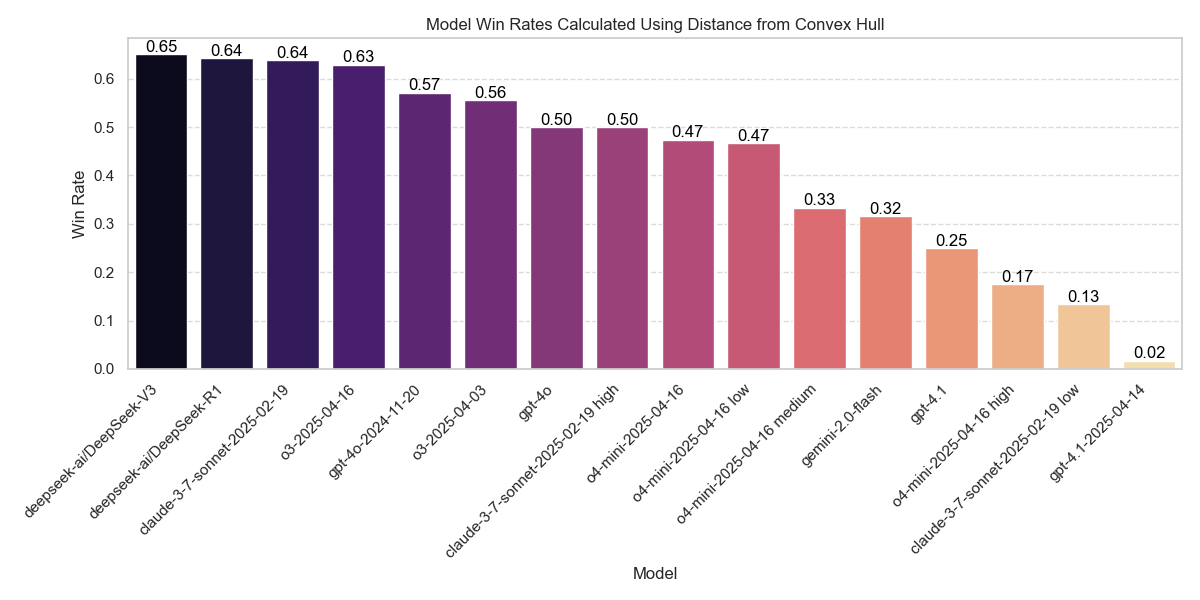
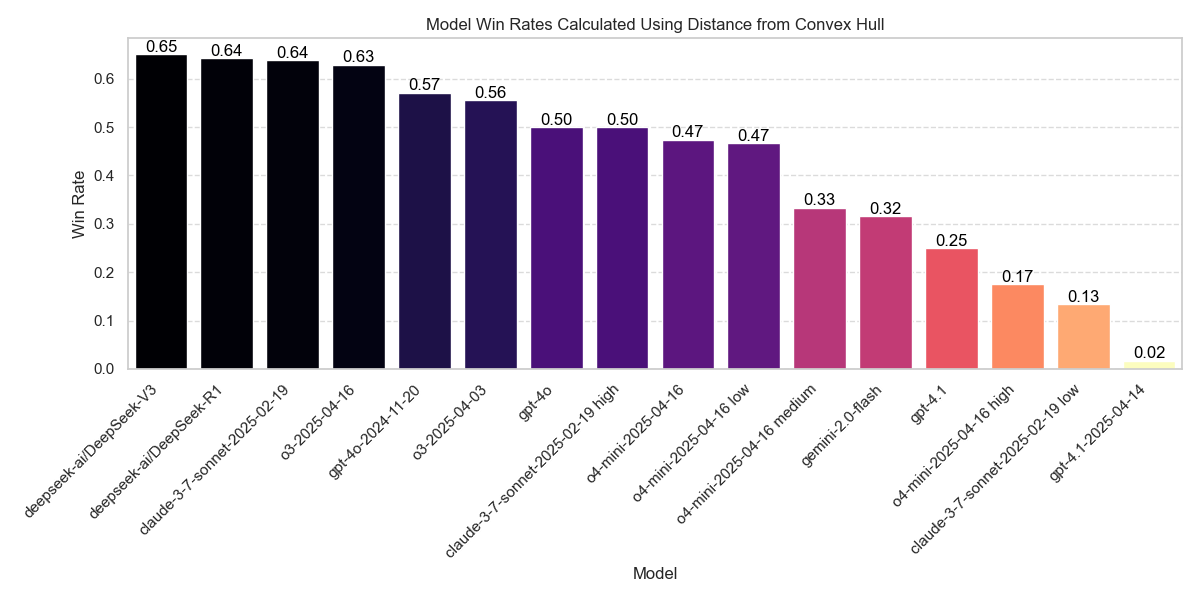
updating visualizations

Changed region(s): [[0.0925, 0.09, 0.9867, 0.63]]

diff --git a/convex_hull.py b/convex_hull.py
@@ -7,26 +7,6 @@ from scipy.spatial import ConvexHull
 import os
 import csv
 
-def calculate_auc(x, y):
-    """
-    Calculate the area under the curve (AUC) using the trapezoidal rule.
-    
-    Args:
-        x: x-coordinates
-        y: y-coordinates
-        
-    Returns:
-        Area under the curve
-    """
-    # Sort points by x
-    indices = np.argsort(x)
-    x_sorted = np.array(x)[indices]
-    y_sorted = np.array(y)[indices]
-    
-    # Calculate AUC using trapezoidal rule
-    auc = np.trapezoid(y_sorted, x_sorted)
-    return auc
-
 def identify_pareto_optimal(df, x_col, y_col, minimize_x=True, maximize_y=True):
     """
     Identify Pareto optimal points (best y for a given x).
@@ -503,7 +483,7 @@ def grid_pareto_frontier_by_benchmark(tasks, merged_df, x_col, y_col, x_label, y
     else:
         return None
 
-# def calculate_pareto_distance(df, x_col, y_col, minimize_x=True, maximize_y=True):
+def calculate_pareto_distance(df, x_col, y_col, minimize_x=True, maximize_y=True):
 #     """
 #     Calculate the distance of each point to the Pareto frontier.
     
@@ -541,64 +521,21 @@ def grid_pareto_frontier_by_benchmark(tasks, merged_df, x_col, y_col, x_label, y
 #         point_x = row[x_col]
 #         point_y = row[y_col]
         
-#         # Initialize with a large value
 #         min_distance = float('inf')
         
-#         # Check if point is outside the x-range of Pareto frontier
-#         if point_x < pareto_x[0]:
-#             # Point is to the left of Pareto frontier
-#             # Calculate distance to the leftmost Pareto point
-#             dist = np.sqrt((point_x - pareto_x[0])**2 + (point_y - pareto_y[0])**2)
-#             min_distance = min(min_distance, dist)
-#         elif point_x > pareto_x[-1]:
-#             # Point is to the right of Pareto frontier
-#             # Calculate distance to the rightmost Pareto point
-#             dist = np.sqrt((point_x - pareto_x[-1])**2 + (point_y - pareto_y[-1])**2)
-#             min_distance = min(min_distance, dist)
-#         else:
-#             # Point is within the x-range of Pareto frontier
-#             # Calculate distance to each line segment of the Pareto frontier
-#             for i in range(len(pareto_x) - 1):
-#                 x1, y1 = pareto_x[i], pareto_y[i]
-#                 x2, y2 = pareto_x[i+1], pareto_y[i+1]
-                
-#                 # Calculate distance to line segment
-#                 # First, check if the projection of the point onto the line segment falls within the segment
-#                 segment_length_squared = (x2 - x1)**2 + (y2 - y1)**2
-#                 if segment_length_squared == 0:
-#                     # Degenerate case: segment is a point
-#                     dist = np.sqrt((point_x - x1)**2 + (point_y - y1)**2)
-#                 else:
-#                     # Calculate projection
-#                     t = max(0, min(1, ((point_x - x1) * (x2 - x1) + (point_y - y1) * (y2 - y1)) / segment_length_squared))
-#                     proj_x = x1 + t * (x2 - x1)
-#                     proj_y = y1 + t * (y2 - y1)
-#                     dist = np.sqrt((point_x - proj_x)**2 + (point_y - proj_y)**2)
-                
-#                 min_distance = min(min_distance, dist)
-        
-#         # Update distance in the DataFrame
+          ##########################################
+          ####### DISTANCE CALCULATION HERE #########
+          ##########################################
+
 #         df.loc[idx, 'pareto_distance'] = min_distance
     
-#     return df
+    # return df
+    return None
 
 # def save_pareto_distances(merged_df, tasks, x_col, y_col, model_col='model_name_short', 
 #                           minimize_x=True, maximize_y=True, filename='pareto_distances.csv'):
 #     """
 #     Calculate and save the distance of each model from the Pareto frontier for each task.
-    
-#     Args:
-#         merged_df: DataFrame with data for all tasks
-#         tasks: List of task/benchmark names
-#         x_col: Column name for x metric (e.g., latency, cost)
-#         y_col: Column name for y metric (e.g., win_rate, accuracy)
-#         model_col: Column name for model/agent names
-#         minimize_x: Whether to minimize the x metric (True for cost/latency)
-#         maximize_y: Whether to maximize the y metric (True for win_rate/accuracy)
-#         filename: Output CSV filename
-        
-#     Returns:
-#         DataFrame with distances for all tasks
 #     """
 #     # Ensure directory exists
 #     os.makedirs('visualizations/pareto_distances', exist_ok=True)
@@ -638,65 +575,6 @@ def grid_pareto_frontier_by_benchmark(tasks, merged_df, x_col, y_col, x_label, y
 #     csv_path = f'visualizations/pareto_distances/{filename}'
 #     combined_df.to_csv(csv_path, index=False)
 #     print(f"Saved Pareto distances to: {csv_path}")
-    
-#     return combined_df
-
-# def create_auc_visualization(auc_data, base_filename):
-#     """
-#     Create a bar chart visualization of AUCs across benchmarks.
-    
-#     Args:
-#         auc_data: List of tuples (benchmark_name, auc_value)
-#         base_filename: Base filename for saving the visualization
-#     """
-#     # Extract benchmark names and AUC values
-#     benchmarks = [item[0] for item in auc_data]
-#     auc_values = [item[1] for item in auc_data]
-    
-#     if not benchmarks:
-#         print("No AUC data available for visualization")
-#         return
-    
-#     # Create bar chart
-#     plt.figure(figsize=(12, 8), facecolor='white')
-    
-#     # Set a more attractive style
-#     plt.style.use('seaborn-v0_8-whitegrid')
-    
-#     # Create bars with gradient color
-#     bars = plt.bar(benchmarks, auc_values, color='#3498db', alpha=0.8, edgecolor='white', linewidth=1.5)
-    
-#     # Add value labels on top of bars
-#     for bar in bars:
-#         height = bar.get_height()
-#         plt.text(
-#             bar.get_x() + bar.get_width()/2.,
-#             height + 0.01 * max(auc_values),
-#             f'{height:.4f}',
-#             ha='center', 
-#             va='bottom',
-#             fontsize=10,
-#             fontweight='bold'
-#         )
-    
-#     # Add title and labels
-#     plt.title('Area Under Curve (AUC) by Benchmark', fontsize=16, pad=20, weight='bold')
-#     plt.xlabel('Benchmark', fontsize=14, labelpad=10)
-#     plt.ylabel('AUC', fontsize=14, labelpad=10)
-    
-#     # Improve grid appearance
-#     plt.grid(True, linestyle='--', alpha=0.3, color='gray', axis='y')
-    
-#     # Rotate x-axis labels if there are many benchmarks
-#     if len(benchmarks) > 5:
-#         plt.xticks(rotation=45, ha='right')
-    
-#     plt.tight_layout()
-    
-#     # Save visualization
-#     os.makedirs('visualizations/auc_visualizations', exist_ok=True)
-#     plt.savefig(f'visualizations/auc_visualizations/{base_filename}_auc_viz.png', dpi=300, bbox_inches='tight')
-#     print(f"Saved AUC visualization: visualizations/auc_visualizations/{base_filename}_auc_viz.png")
 
 def cost_accuracy():
     model_costs = pd.read_csv('model_total_usage.csv')

diff --git a/src/dataloaders/config.py b/src/dataloaders/config.py
@@ -70,59 +70,3 @@ AGENT_NAME_MAP = {
     "Hal Generalist Agent (o4-mini-2025-04-16 high)": "HAL Generalist Agent (o4-mini-2025-04-16 high)",
     "coreagent": "CORE-Agent"
 }
-
-
-# AGENT_NAME_MAP = {
-#     "taubench_fewshot_o320250403": "TAU-bench FewShot (o3-2025-04-03)",
-#     "taubench_fewshot_o3mini20250131_high": "TAU-bench FewShot (o3-mini-2025-01-31)",
-#     "colbench_text_o4mini": "Col-bench Text (o4-mini)",
-#     "colbench_text_gemmini2flash": "Col-bench Text (gemini-2.0-flash)",
-#     "colbench_text_gpt41": "Col-bench Text (gpt-4.1)",
-#     "colbench_text_sonnet37": "Col-bench Text (claude-3-7-sonnet)",
-#     "colbench_text_deepseekr1": "Col-bench Text (claude-3-7-sonnet)", 
-#     "colbench_text_deepseekr1": "Col-bench Text (deepseek-ai/DeepSeek-R1)",
-#     "colbench_text_deepseekv3": "Col-bench Text (deepseek-ai/DeepSeek-V3)",
-#     "colbench_text_gemini": "Col-bench Text (gemini-2.0-flash)",
-#     "colbench_text_deepseekv3": "Col-bench Text (deepseek-ai/DeepSeek-V3)",
-#     "colbench_text_sonnet": "Col-bench Text (claude-3-7-sonnet)",
-#     "colbench_text_o4minilow": "Col-bench Text (o4-mini)",
-#     "colbench_text_deepseekr1": "Col-bench Text (deepseek-ai/DeepSeek-R1)",
-#     "colbench_text_o4minimedium": "Col-bench Text (o4-mini)",
-#     "colbench_text_o4minihigh": "Col-bench Text (o4-mini)",
-#     "usaco_episodic__semantic_o3mini20250131_high": "USACO Episodic + Semantic (o3-mini)",
-#     "usaco_episodic__semantic_deepseekaideepseekr1": "USACO Episodic + Semantic (deepseek-ai/DeepSeek-R1)",
-#     "usaco_episodic__semantic_gpt4120250414": "USACO Episodic + Semantic (gpt-4.1)",
-#     "usaco_episodic__semantic_o3mini20250131_low": "USACO Episodic + Semantic (o3-mini)",
-#     "usaco_episodic__semantic_deepseekaideepseekv3": "USACO Episodic + Semantic (deepseek-ai/DeepSeek-V3)",
-#     "hal_generalist_agent_o3mini20250131_high": "HAL Generalist Agent (o3-mini)",
-#     "My Agent(o3-mini)": "SWE-Agent (o3-mini)",
-#     "My Agent(gemini/gemini-2.0-flash)": "SWE-Agent (gemini-2.0-flash)",
-#     "hal_generalist_agent_gemini20flash": "HAL Generalist Agent (gemini-2.0-flash)",
-#     "My Agent(claude-3-7-sonnet-20250219)": "SWE-Agent (claude-3-7-sonnet)",
-#     "My Agent(o3-2025-04-16)": "SWE-Agent (o3)",
-#     "My Agent(gpt-4o)": "SWE-Agent (gpt-4o)",
-#     "hal_generalist_agent_deepseekaideepseekv3": "HAL Generalist Agent (deepseek-ai/DeepSeek-V3)",
-#     "hal_generalist_agent_deepseekaideepseekr1": "HAL Generalist Agent (deepseek-ai/DeepSeek-R1)",
-#     "My Agent(o4-mini-2025-04-16)": "SWE-Agent (o4-mini)",
-#     "my_agenttogether_aideepseekaideepseekv3": "SWE-Agent (deepseek-ai/DeepSeek-V3)",
-#     "My Agent(o1)": "SWE-Agent (o1)",
-#     "hal_generalist_agent_o3mini20250131_low": "HAL Generalist Agent (o3-mini)",
-#     "My Agent(together_ai/deepseek-ai/DeepSeek-R1)": "SWE-Agent (deepseek-ai/DeepSeek-R1)",
-#     "My Agent(gpt-4.1)": "SWE-Agent (gpt-4.1)",
-#     "SAB Self-Debug o3 medium": "SAB Example Agent (o3)",
-#     "SAB Self-Debug Claude-3-7": "SAB Example Agent (claude-3-7-sonnet)",
-#     "SAB Self-Debug o4-mini low": "SAB Example Agent (o4-mini)",
-#     "SAB Self-Debug gemini-2-0-flash": "SAB Example Agent (gemini-2.0-flash)",
-#     "SAB Self-Debug Claude-3-7 high": "SAB Example Agent (claude-3-7-sonnet)",
-#     "sab_selfdebug_gpt_41": "SAB Example Agent (gpt-4.1)",
-#     "SAB Self-Debug DS-V3": "SAB Example Agent (deepseek-ai/DeepSeek-V3)",
-#     "SAB Self-Debug Claude-3-7 low": "SAB Example Agent (claude-3-7-sonnet)",
-#     "SAB Self-Debug o4-mini high": "SAB Example Agent (o4-mini)",
-#     "sab_selfdebug_dsr1": "SAB Example Agent (deepseek-ai/DeepSeek-R1)",
-#     "SAB Self-Debug gemini-2-5-pro": "SAB Example Agent (gemini-2.5-pro-preview)",
-#     "Hal Generalist Agent (o3-2025-04-16)": "HAL Generalist Agent (o3-2025-04-16)",
-#     "Hal Generalist Agent (gpt-4.1-2025-04-14)": "HAL Generalist Agent (gpt-4.1)",
-#     "Hal Generalist Agent (o4-mini-2025-04-16 low)": "HAL Generalist Agent (o4-mini)",
-#     "Hal Generalist Agent (o4-mini-2025-04-16)": "HAL Generalist Agent (o4-mini)",
-#     "Hal Generalist Agent (o4-mini-2025-04-16 high)": "HAL Generalist Agent (o4-mini)"
-# }

diff --git a/metric_exploration.py b/metric_exploration.py
@@ -294,7 +294,7 @@ def grid_pareto_frontier_by_benchmark(tasks, merged_df, x_col, y_col, x_label, y
     # Flatten the axes array for easy iteration
     axes = axes.flatten()
     
-    all_pareto_dfs = []
+    #all_pareto_dfs = []
     auc_data = []  # Store benchmark names and AUC values
     
     for idx, task in enumerate(tasks):
@@ -353,6 +353,9 @@ def grid_pareto_frontier_by_benchmark(tasks, merged_df, x_col, y_col, x_label, y
             alpha=0.8
         )
         
+        auc = calculate_auc(optimal_points[x_col].values, optimal_points[y_col].values)
+        auc_data.append((benchmark_name, auc))
+
         # Add model/agent names as labels with better styling
         for _, row in pareto_df.iterrows():
             color = '#e74c3c' if row['pareto_optimal'] else '#3498db'
@@ -389,16 +392,16 @@ def grid_pareto_frontier_by_benchmark(tasks, merged_df, x_col, y_col, x_label, y
         # Improve grid appearance
         ax.grid(True, linestyle='--', alpha=0.3, color='gray')
         
-        # Add a subtle border around the plot
+        # Add a border around the plot
         for spine in ax.spines.values():
             spine.set_visible(True)
             spine.set_color('lightgray')
             spine.set_linewidth(0.5)
         
         # Store the pareto dataframe with AUC
-        # pareto_df['auc'] = auc
+        pareto_df['auc'] = auc
         # all_pareto_dfs.append(pareto_df)
-    
+        # print(pareto_df.head())
     # Add a single legend for the entire figure
     handles, labels = axes[0].get_legend_handles_labels()
     if handles:
@@ -495,7 +498,7 @@ def create_auc_visualization(auc_data, base_filename):
     plt.savefig(f'visualizations/auc_visualizations/{base_filename}_auc_viz.png', dpi=300, bbox_inches='tight')
     print(f"Saved AUC visualization: visualizations/auc_visualizations/{base_filename}_auc_viz.png")
 
-def cost_accuracy():
+def inverse_cost_accuracy():
     model_costs = pd.read_csv('model_total_usage.csv')
     model_accuracy = pd.read_csv('model_accuracy.csv')
     df_m = model_accuracy.merge(model_costs, on=['model_name_short', 'benchmark_name'], how='left')
@@ -503,4 +506,4 @@ def cost_accuracy():
     tasks = df_m['benchmark_name'].unique()
     grid_pareto_frontier_by_benchmark(tasks, df_m, 'inverse_cost', 'accuracy', 'Inverse Cost', 'Accuracy', 4, 'inverse_cost_accuracy.png')
 
-cost_accuracy()
+inverse_cost_accuracy()

diff --git a/visualizations.py b/visualizations.py
@@ -82,9 +82,14 @@ def model_win_rate_bar(model_win_rates, calc_type):
     # Sort by win rate
     sorted_df = model_win_rates_cleaned.sort_values('overall_win_rate', ascending=False)
 
-
     # Create bar plot
-    ax = sns.barplot(x='model_name_short', y='overall_win_rate', data=sorted_df, hue='model_name_short', palette='magma')
+    ax = sns.barplot(x='model_name_short', y='overall_win_rate', data=sorted_df, hue='model_name_short', palette='dark:gray')
+    norm = plt.Normalize(sorted_df['overall_win_rate'].min(), sorted_df['overall_win_rate'].max())
+    cmap = plt.cm.magma_r
+    colors = cmap(norm(sorted_df['overall_win_rate']))
+
+    for bar, color in zip(ax.patches, colors):
+        bar.set_facecolor(color)
     
     if calc_type == 'max':
         plt.title(f'Model Win Rates Calculated Using Max Accuracy')
